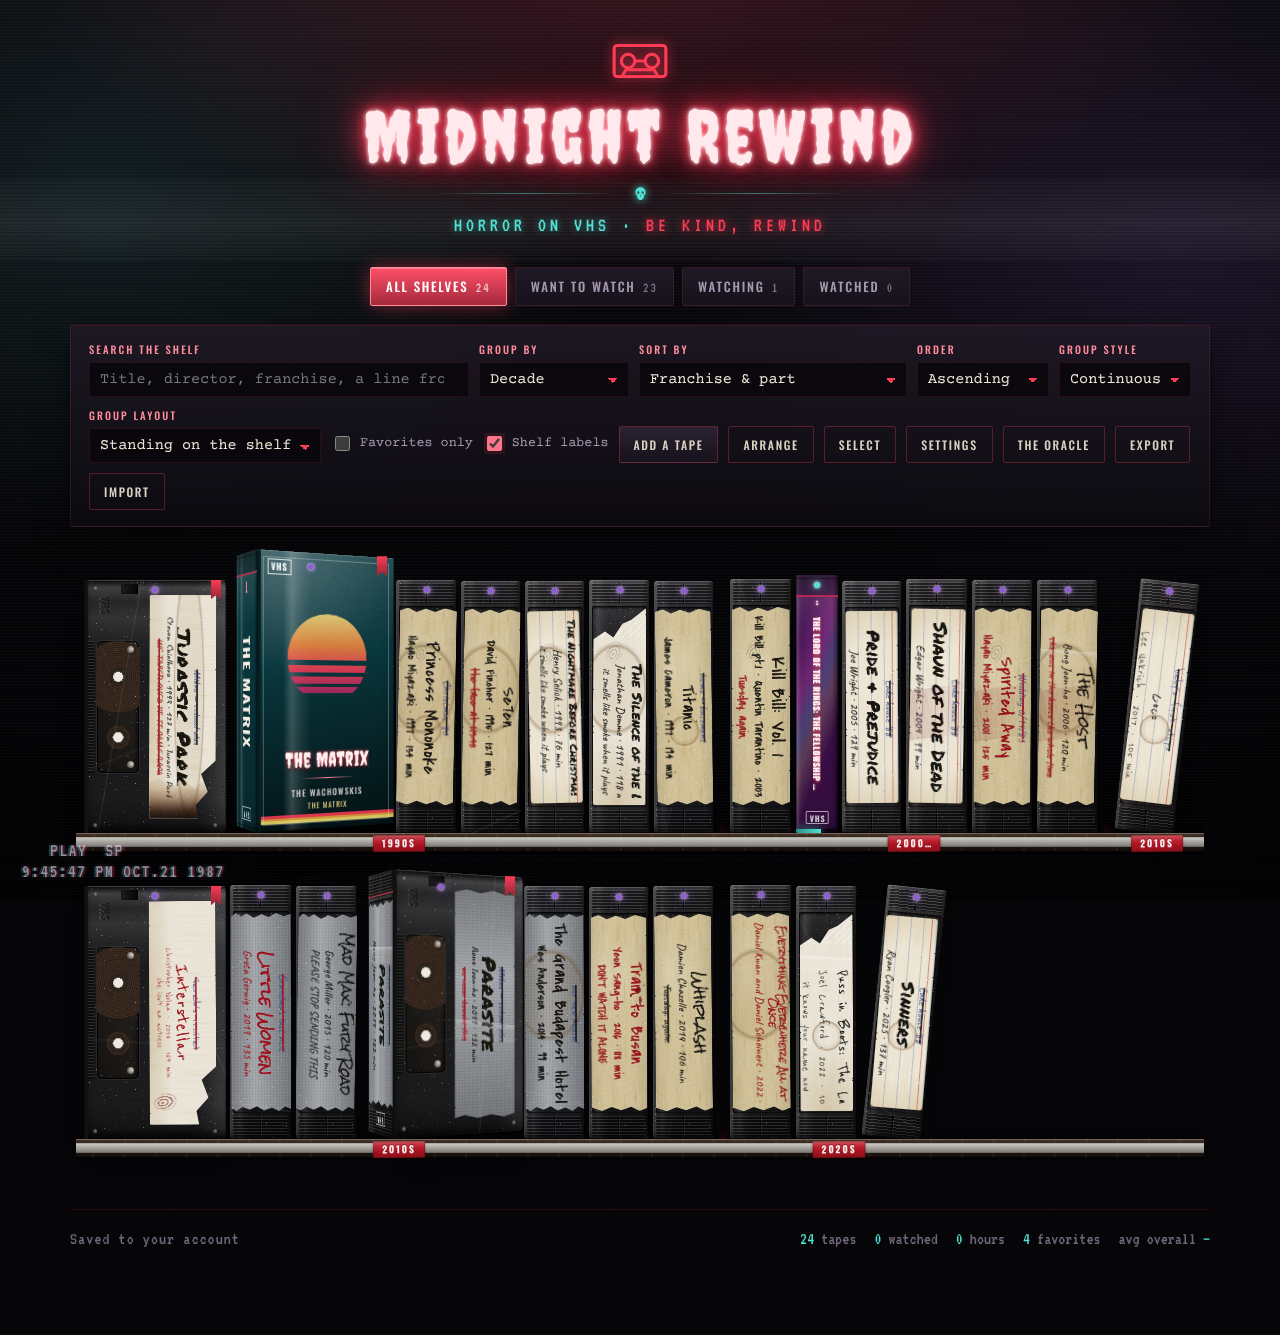
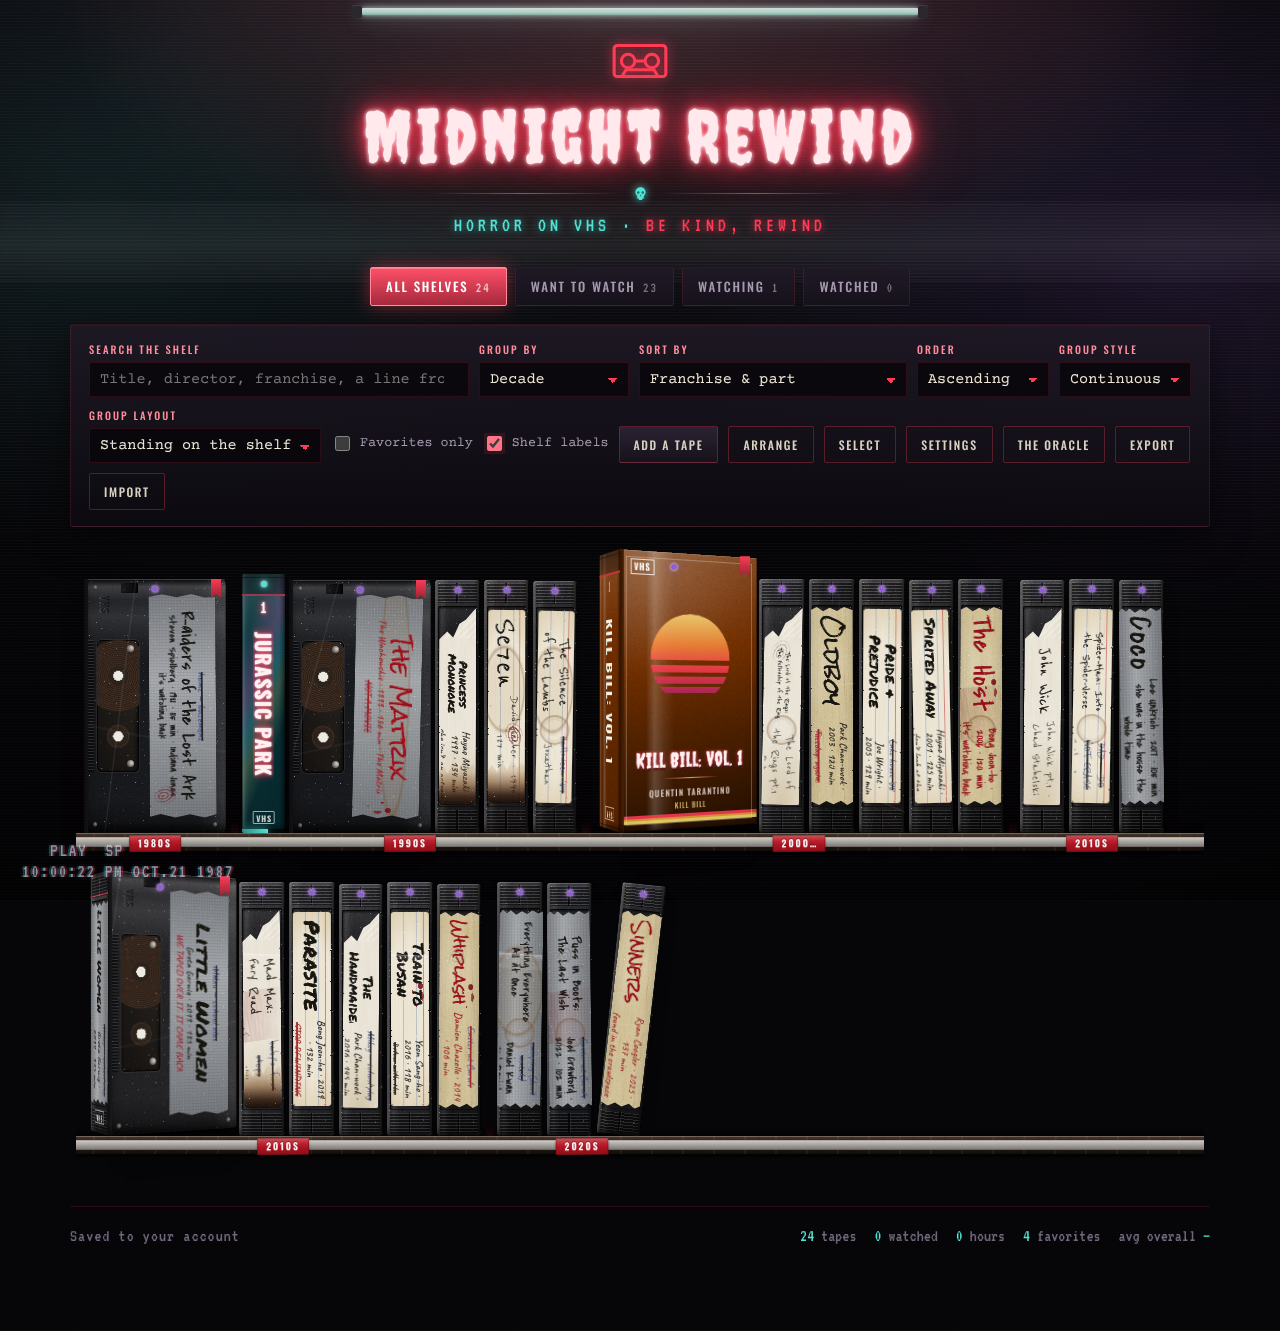
Readable tape titles on thinner tapes, and a flickering tube light (#4)
The spine label no longer shares its width between the title and the
details: the title is written across the full width down the top of the
label, one line or two, whichever is larger, and the details, stars and
notes run below it in small writing that wraps across the spine. Bare
tapes go from 60px to 44px wide. Torn labels start their writing below
the tear. Fonts are unchanged.

A fluorescent tube now hangs on the back wall above the sign, humming and
stuttering on an irregular loop, with its light spilling down behind the
shelves; it holds steady with the Atmosphere setting off or reduced
motion.

Claude-Session: https://claude.ai/code/session_016hQkK998c2gkUKNzShamAL

diff --git a/artifact/midnight-rewind.html b/artifact/midnight-rewind.html
@@ -442,6 +442,30 @@ input:focus,select:focus,textarea:focus{border-color:var(--neon-dim);box-shadow:
 .tl-note.x{text-decoration:line-through;text-decoration-thickness:1.5px}
 .let-pencil .tl-title{font-family:"Caveat",cursive;font-weight:700;font-size:calc(var(--fs) * 1.2);opacity:.85;text-shadow:none}
 .let-pencil .tl-meta,.let-pencil .tl-note{opacity:.75}
+/* On a spine: the title down the top of the label at full width, the rest
+   below it in small writing that wraps from line to line across the spine. */
+.tlabel.stacked{
+  writing-mode:horizontal-tb;display:flex;flex-direction:column;align-items:center;padding:8px 2px 6px;
+}
+.tlabel.stacked > span.tl-title{
+  writing-mode:vertical-rl;flex:0 0 auto;max-height:var(--room);max-width:100%;
+  white-space:nowrap;text-align:center;line-height:1.08;
+}
+.tlabel.stacked.two > span.tl-title{white-space:normal;line-height:1.02;text-wrap:balance}
+.hand-scratch.stacked > span.tl-title{line-height:1.3}
+.tlabel.stacked.lab-torn{padding-top:40px}
+
+.tl-rest{
+  writing-mode:vertical-rl;flex:1 1 auto;min-height:0;max-width:100%;overflow:hidden;
+  margin-top:7px;position:relative;z-index:2;line-height:1.05;
+}
+.tl-rest > span{display:block;white-space:normal}
+.tlabel.stacked .tl-meta{font-size:10.5px}
+.tlabel.stacked .tl-stars{font-size:10px}
+.tlabel.stacked .tl-note,.tlabel.stacked .tl-old{font-size:10.5px}
+.hand-scrawl.stacked .tl-meta,.hand-scrawl.stacked .tl-note,.hand-scrawl.stacked .tl-old{font-size:13px}
+.hand-neat.stacked .tl-meta,.hand-neat.stacked .tl-note{font-size:11.5px}
+
 
 /* Masking tape: translucent buff paper, torn at both ends. */
 .lab-masking{
@@ -615,6 +639,41 @@ width:calc(var(--cw) * .035);height:calc(var(--cw) * .035);border-radius:50%;z-i
 .cass-screw.s3{left:2.5%;bottom:6%}
 .cass-screw.s4{right:2.5%;bottom:6%}
 .faced .cass-front,.ang-front .cass-front{border-radius:inherit}
+
+/* ---------- the tube ----------
+   A fluorescent tube high on the back wall, never quite steady: it hums along
+   a little dim and a little bright, and every so often stutters. Its light
+   spills down the wall behind the shelves. Subtle by design; it is the room,
+   not an effect. */
+.tube{
+  position:absolute;top:-22px;left:50%;width:min(560px,70%);height:7px;transform:translateX(-50%);
+  border-radius:4px;z-index:0;pointer-events:none;
+  background:linear-gradient(180deg,#F4FFFB,#C9F2E6 60%,#8FC9BA);
+  box-shadow:0 0 6px rgba(220,255,245,.9), 0 0 22px rgba(170,255,230,.45), 0 0 60px rgba(150,240,220,.25);
+  animation:hum 7.3s linear infinite;
+}
+.tube::before,.tube::after{
+  content:"";position:absolute;top:-3px;width:10px;height:13px;border-radius:2px;background:#2a2a2e;
+  box-shadow:inset 0 1px 0 rgba(255,255,255,.12);
+}
+.tube::before{left:-8px}
+.tube::after{right:-8px}
+.tube-light{
+  position:fixed;left:0;right:0;top:0;height:85vh;z-index:0;pointer-events:none;
+  background:radial-gradient(60% 70% at 50% 0%, rgba(170,255,232,.10), rgba(170,255,232,.035) 45%, transparent 75%);
+  mix-blend-mode:screen;
+  animation:hum 7.3s linear infinite;
+}
+@keyframes hum{
+  0%{opacity:.9} 8%{opacity:.82} 9%{opacity:.35} 9.6%{opacity:.88} 10.2%{opacity:.4} 11%{opacity:.92}
+  27%{opacity:.85} 41%{opacity:.95} 55%{opacity:.8} 63%{opacity:.88}
+  71%{opacity:.86} 71.5%{opacity:.25} 72.4%{opacity:.75} 73%{opacity:.3} 74.5%{opacity:.9}
+  88%{opacity:.84} 100%{opacity:.9}
+}
+body.app .tube{display:none}
+body.calm .tube,body.calm .tube-light{animation:none;opacity:.85}
+@media (prefers-reduced-motion:reduce){.tube,.tube-light{animation:none;opacity:.85}}
+.masthead{position:relative}
 
 /* ---------- atmosphere ----------
    Film grain over everything, a fluorescent tube on its way out, the VCR's
@@ -1776,6 +1835,7 @@ body.app #oracleOverlay .or-actions .btn{min-height:48px}
   </filter>
 </svg>
 <div class="chamber" aria-hidden="true"></div>
+<div class="tube-light" aria-hidden="true"></div>
 <div class="film-grain" aria-hidden="true"></div>
 <div class="lamp" id="lamp" aria-hidden="true"></div>
 <div class="osd" aria-hidden="true"><div><b>&#9654;</b> PLAY &nbsp;SP</div><div id="osdClock"></div></div>
@@ -1789,6 +1849,8 @@ body.app #oracleOverlay .or-actions .btn{min-height:48px}
 
 <div class="wrap">
   <header class="masthead">
+    <span class="tube" aria-hidden="true"></span>
+
     <svg class="crest" viewBox="0 0 24 24" aria-hidden="true">
       <rect x="2" y="6" width="20" height="12" rx="1.2"/>
       <circle cx="7.4" cy="12" r="2.6"/><circle cx="16.6" cy="12" r="2.6"/>
@@ -2702,7 +2764,7 @@ function coverShow(b){
    than a sleeve, and how fat the case is. The lettering is fitted to the room
    instead (see spineFontSize). */
 var COVER_RATIO = 0.56;
-var BOX_W = {bare:60, rental:46, slipcase:38, clamshell:50, foil:42, glossy:40};
+var BOX_W = {bare:44, rental:46, slipcase:38, clamshell:50, foil:42, glossy:40};
 function autoH(b){
   var f = finishOf(b);
   return (f === "clamshell" ? 266 : f === "bare" ? 252 : 258) + (hash(b.id) % 3);
@@ -3738,34 +3800,48 @@ function tapedOverHTML(b){
   var old = tapedOverOf(b);
   return old ? '<span class="tl-old">' + esc(old) + "</span>" : "";
 }
+/* The title owns the label. It is written big, across the full width of the
+   spine, down the top of the label; the details, stars and notes go below it
+   in small writing, further down the tape, the way a careful hand labels a
+   spine it cannot make any wider. */
 function bareSpineHTML(b, h, s){
-  var len = h - 58;                              /* the label, end to end */
+  var len = h - 56 - 15;                         /* the label, end to end, inside its padding */
+  var across = spineW(b) - 12;                   /* and across */
   var title = b.title || "Untitled";
   var chars = Math.max(1, title.length);
-  var hand = HANDS[handOf(b)], old = tapedOverOf(b);
-  /* Past what one line can hold at a readable size, the title wraps onto a
-     second, and the note, or the crossed-out home movie, gives way. */
-  var one = len / (chars * hand.width);
-  var two = one < 10 * hand.scale;
-  var fs = two ? Math.min(12 * hand.scale, (len * 2) / (chars * hand.width * 1.03))
-               : Math.min(19 * hand.scale, 21, one);
+  var hand = HANDS[handOf(b)];
   var details = labelDetails(b, s), stars = s.pips ? starText(b) : "";
-  /* And across: the title's line, or two, must leave room on the label for
-     the details, the stars and whatever was scrawled there first. */
-  var across = spineW(b) - 12 - (details.length ? 14 : 0) - (stars ? 12 : 0) -
-    (!two && (old || scrawlOn(b)) ? 14 : 0);
-  fs = Math.min(fs, across / (two ? 2.1 : 1.12));
+  var rest = (details.length || stars || tapedOverOf(b) || scrawlOn(b)) ? 74 : 0;
+  /* A torn label has lost its top corner; the writing starts below the tear. */
+  if(labelOf(b) === "torn") len -= Math.round(len * 0.2);
+  var room = len - rest;                         /* the length the title may use */
+  /* A line can be no taller than the spine is wide. Rock Salt stands taller
+     in its line than the others; the small-bodied hands may run a little
+     larger before they fill it. */
+  var lead = handOf(b) === "scratch" ? 1.3 : 1.08;
+  var cap = across / lead * (hand.scale > 1 ? 1.15 : 1);
+  var one = room / (chars * hand.width);
+  /* One line or two, whichever writes the title bigger. Handwriting wraps less
+     tidily than it measures (a word that will not fit at the end of a line
+     pushes to the next), so two lines are budgeted at well under twice one,
+     and only win when they are clearly larger. */
+  var fs1 = Math.min(cap, one * 0.96);
+  var fs2 = chars > 6 ? Math.min(cap / 2.05, (room * 2) / (chars * hand.width) * 0.8) : 0;
+  var two = fs2 > fs1 * 1.12;
+  var fs = two ? fs2 : fs1;
   fs = Math.max(7.5, fs) * textScale(b);
   return '<span class="bare-grip top"></span><span class="bare-grip bot"></span><span class="bare-well"></span>' +
     plasticWearHTML(b) +
-    '<span class="' + labelClass(b, two ? " two" : "") + '" style="--tilt:' + labelTilt(b) +
-      'deg;--fs:' + fs.toFixed(2) + 'px">' +
+    '<span class="' + labelClass(b, " stacked" + (two ? " two" : "")) + '" style="--tilt:' + labelTilt(b) +
+      'deg;--fs:' + fs.toFixed(2) + 'px;--room:' + Math.round(room) + 'px">' +
       stainsHTML(b) +
-      (two ? "" : tapedOverHTML(b)) +
       (s.title ? '<span class="tl-title">' + esc(title) + "</span>" : "") +
-      (details.length ? '<span class="tl-meta">' + esc(details.join(" \u00B7 ")) + "</span>" : "") +
-      (stars ? '<span class="tl-stars">' + stars + "</span>" : "") +
-      (two || old ? "" : noteHTML(b, "tl-note")) +
+      '<span class="tl-rest">' +
+        tapedOverHTML(b) +
+        (details.length ? '<span class="tl-meta">' + esc(details.join(" · ")) + "</span>" : "") +
+        (stars ? '<span class="tl-stars">' + stars + "</span>" : "") +
+        noteHTML(b, "tl-note") +
+      "</span>" +
     "</span>";
 }
 /* The face of the cassette, for a tape stood front-out or turned on the shelf.

diff --git a/index.html b/index.html
@@ -462,6 +462,30 @@ input:focus,select:focus,textarea:focus{border-color:var(--neon-dim);box-shadow:
 .tl-note.x{text-decoration:line-through;text-decoration-thickness:1.5px}
 .let-pencil .tl-title{font-family:"Caveat",cursive;font-weight:700;font-size:calc(var(--fs) * 1.2);opacity:.85;text-shadow:none}
 .let-pencil .tl-meta,.let-pencil .tl-note{opacity:.75}
+/* On a spine: the title down the top of the label at full width, the rest
+   below it in small writing that wraps from line to line across the spine. */
+.tlabel.stacked{
+  writing-mode:horizontal-tb;display:flex;flex-direction:column;align-items:center;padding:8px 2px 6px;
+}
+.tlabel.stacked > span.tl-title{
+  writing-mode:vertical-rl;flex:0 0 auto;max-height:var(--room);max-width:100%;
+  white-space:nowrap;text-align:center;line-height:1.08;
+}
+.tlabel.stacked.two > span.tl-title{white-space:normal;line-height:1.02;text-wrap:balance}
+.hand-scratch.stacked > span.tl-title{line-height:1.3}
+.tlabel.stacked.lab-torn{padding-top:40px}
+
+.tl-rest{
+  writing-mode:vertical-rl;flex:1 1 auto;min-height:0;max-width:100%;overflow:hidden;
+  margin-top:7px;position:relative;z-index:2;line-height:1.05;
+}
+.tl-rest > span{display:block;white-space:normal}
+.tlabel.stacked .tl-meta{font-size:10.5px}
+.tlabel.stacked .tl-stars{font-size:10px}
+.tlabel.stacked .tl-note,.tlabel.stacked .tl-old{font-size:10.5px}
+.hand-scrawl.stacked .tl-meta,.hand-scrawl.stacked .tl-note,.hand-scrawl.stacked .tl-old{font-size:13px}
+.hand-neat.stacked .tl-meta,.hand-neat.stacked .tl-note{font-size:11.5px}
+
 
 /* Masking tape: translucent buff paper, torn at both ends. */
 .lab-masking{
@@ -635,6 +659,41 @@ width:calc(var(--cw) * .035);height:calc(var(--cw) * .035);border-radius:50%;z-i
 .cass-screw.s3{left:2.5%;bottom:6%}
 .cass-screw.s4{right:2.5%;bottom:6%}
 .faced .cass-front,.ang-front .cass-front{border-radius:inherit}
+
+/* ---------- the tube ----------
+   A fluorescent tube high on the back wall, never quite steady: it hums along
+   a little dim and a little bright, and every so often stutters. Its light
+   spills down the wall behind the shelves. Subtle by design; it is the room,
+   not an effect. */
+.tube{
+  position:absolute;top:-22px;left:50%;width:min(560px,70%);height:7px;transform:translateX(-50%);
+  border-radius:4px;z-index:0;pointer-events:none;
+  background:linear-gradient(180deg,#F4FFFB,#C9F2E6 60%,#8FC9BA);
+  box-shadow:0 0 6px rgba(220,255,245,.9), 0 0 22px rgba(170,255,230,.45), 0 0 60px rgba(150,240,220,.25);
+  animation:hum 7.3s linear infinite;
+}
+.tube::before,.tube::after{
+  content:"";position:absolute;top:-3px;width:10px;height:13px;border-radius:2px;background:#2a2a2e;
+  box-shadow:inset 0 1px 0 rgba(255,255,255,.12);
+}
+.tube::before{left:-8px}
+.tube::after{right:-8px}
+.tube-light{
+  position:fixed;left:0;right:0;top:0;height:85vh;z-index:0;pointer-events:none;
+  background:radial-gradient(60% 70% at 50% 0%, rgba(170,255,232,.10), rgba(170,255,232,.035) 45%, transparent 75%);
+  mix-blend-mode:screen;
+  animation:hum 7.3s linear infinite;
+}
+@keyframes hum{
+  0%{opacity:.9} 8%{opacity:.82} 9%{opacity:.35} 9.6%{opacity:.88} 10.2%{opacity:.4} 11%{opacity:.92}
+  27%{opacity:.85} 41%{opacity:.95} 55%{opacity:.8} 63%{opacity:.88}
+  71%{opacity:.86} 71.5%{opacity:.25} 72.4%{opacity:.75} 73%{opacity:.3} 74.5%{opacity:.9}
+  88%{opacity:.84} 100%{opacity:.9}
+}
+body.app .tube{display:none}
+body.calm .tube,body.calm .tube-light{animation:none;opacity:.85}
+@media (prefers-reduced-motion:reduce){.tube,.tube-light{animation:none;opacity:.85}}
+.masthead{position:relative}
 
 /* ---------- atmosphere ----------
    Film grain over everything, a fluorescent tube on its way out, the VCR's
@@ -1939,6 +1998,7 @@ body.app #oracleOverlay .or-actions .btn{min-height:48px}
   </filter>
 </svg>
 <div class="chamber" aria-hidden="true"></div>
+<div class="tube-light" aria-hidden="true"></div>
 <div class="film-grain" aria-hidden="true"></div>
 <div class="lamp" id="lamp" aria-hidden="true"></div>
 <div class="osd" aria-hidden="true"><div><b>&#9654;</b> PLAY &nbsp;SP</div><div id="osdClock"></div></div>
@@ -1952,6 +2012,8 @@ body.app #oracleOverlay .or-actions .btn{min-height:48px}
 
 <div class="wrap">
   <header class="masthead">
+    <span class="tube" aria-hidden="true"></span>
+
     <svg class="crest" viewBox="0 0 24 24" aria-hidden="true">
       <rect x="2" y="6" width="20" height="12" rx="1.2"/>
       <circle cx="7.4" cy="12" r="2.6"/><circle cx="16.6" cy="12" r="2.6"/>
@@ -2865,7 +2927,7 @@ function coverShow(b){
    than a sleeve, and how fat the case is. The lettering is fitted to the room
    instead (see spineFontSize). */
 var COVER_RATIO = 0.56;
-var BOX_W = {bare:60, rental:46, slipcase:38, clamshell:50, foil:42, glossy:40};
+var BOX_W = {bare:44, rental:46, slipcase:38, clamshell:50, foil:42, glossy:40};
 function autoH(b){
   var f = finishOf(b);
   return (f === "clamshell" ? 266 : f === "bare" ? 252 : 258) + (hash(b.id) % 3);
@@ -3901,34 +3963,48 @@ function tapedOverHTML(b){
   var old = tapedOverOf(b);
   return old ? '<span class="tl-old">' + esc(old) + "</span>" : "";
 }
+/* The title owns the label. It is written big, across the full width of the
+   spine, down the top of the label; the details, stars and notes go below it
+   in small writing, further down the tape, the way a careful hand labels a
+   spine it cannot make any wider. */
 function bareSpineHTML(b, h, s){
-  var len = h - 58;                              /* the label, end to end */
+  var len = h - 56 - 15;                         /* the label, end to end, inside its padding */
+  var across = spineW(b) - 12;                   /* and across */
   var title = b.title || "Untitled";
   var chars = Math.max(1, title.length);
-  var hand = HANDS[handOf(b)], old = tapedOverOf(b);
-  /* Past what one line can hold at a readable size, the title wraps onto a
-     second, and the note, or the crossed-out home movie, gives way. */
-  var one = len / (chars * hand.width);
-  var two = one < 10 * hand.scale;
-  var fs = two ? Math.min(12 * hand.scale, (len * 2) / (chars * hand.width * 1.03))
-               : Math.min(19 * hand.scale, 21, one);
+  var hand = HANDS[handOf(b)];
   var details = labelDetails(b, s), stars = s.pips ? starText(b) : "";
-  /* And across: the title's line, or two, must leave room on the label for
-     the details, the stars and whatever was scrawled there first. */
-  var across = spineW(b) - 12 - (details.length ? 14 : 0) - (stars ? 12 : 0) -
-    (!two && (old || scrawlOn(b)) ? 14 : 0);
-  fs = Math.min(fs, across / (two ? 2.1 : 1.12));
+  var rest = (details.length || stars || tapedOverOf(b) || scrawlOn(b)) ? 74 : 0;
+  /* A torn label has lost its top corner; the writing starts below the tear. */
+  if(labelOf(b) === "torn") len -= Math.round(len * 0.2);
+  var room = len - rest;                         /* the length the title may use */
+  /* A line can be no taller than the spine is wide. Rock Salt stands taller
+     in its line than the others; the small-bodied hands may run a little
+     larger before they fill it. */
+  var lead = handOf(b) === "scratch" ? 1.3 : 1.08;
+  var cap = across / lead * (hand.scale > 1 ? 1.15 : 1);
+  var one = room / (chars * hand.width);
+  /* One line or two, whichever writes the title bigger. Handwriting wraps less
+     tidily than it measures (a word that will not fit at the end of a line
+     pushes to the next), so two lines are budgeted at well under twice one,
+     and only win when they are clearly larger. */
+  var fs1 = Math.min(cap, one * 0.96);
+  var fs2 = chars > 6 ? Math.min(cap / 2.05, (room * 2) / (chars * hand.width) * 0.8) : 0;
+  var two = fs2 > fs1 * 1.12;
+  var fs = two ? fs2 : fs1;
   fs = Math.max(7.5, fs) * textScale(b);
   return '<span class="bare-grip top"></span><span class="bare-grip bot"></span><span class="bare-well"></span>' +
     plasticWearHTML(b) +
-    '<span class="' + labelClass(b, two ? " two" : "") + '" style="--tilt:' + labelTilt(b) +
-      'deg;--fs:' + fs.toFixed(2) + 'px">' +
+    '<span class="' + labelClass(b, " stacked" + (two ? " two" : "")) + '" style="--tilt:' + labelTilt(b) +
+      'deg;--fs:' + fs.toFixed(2) + 'px;--room:' + Math.round(room) + 'px">' +
       stainsHTML(b) +
-      (two ? "" : tapedOverHTML(b)) +
       (s.title ? '<span class="tl-title">' + esc(title) + "</span>" : "") +
-      (details.length ? '<span class="tl-meta">' + esc(details.join(" \u00B7 ")) + "</span>" : "") +
-      (stars ? '<span class="tl-stars">' + stars + "</span>" : "") +
-      (two || old ? "" : noteHTML(b, "tl-note")) +
+      '<span class="tl-rest">' +
+        tapedOverHTML(b) +
+        (details.length ? '<span class="tl-meta">' + esc(details.join(" · ")) + "</span>" : "") +
+        (stars ? '<span class="tl-stars">' + stars + "</span>" : "") +
+        noteHTML(b, "tl-note") +
+      "</span>" +
     "</span>";
 }
 /* The face of the cassette, for a tape stood front-out or turned on the shelf.

diff --git a/sw.js b/sw.js
@@ -1,5 +1,5 @@
 /* Generated by build.py. */
-var CACHE = "midnight-rewind-099718b96ae8";
+var CACHE = "midnight-rewind-82f6310ad620";
 var SHELL = ["./", "index.html", "manifest.webmanifest",
              "icons/icon-192.png", "icons/icon-512.png", "icons/apple-touch-icon.png"];
 

diff --git a/README.md b/README.md
@@ -45,8 +45,10 @@ with every feature that has, reworked for movies and dressed for horror.
   recordings found in a basement. The label is masking tape, a ruled stationery
   sticker, duct tape or a half-peeled shop label, with paper fibre and edges and
   ink that wobble the way hand-made things do. Each tape was labelled by one of
-  four different hands, in marker (black, red, or pencil), with the title,
-  franchise and part, director, year, runtime and your rating as drawn stars.
+  four different hands, in marker (black, red, or pencil). The title is written
+  big, across the full width of the spine, down the top of the label; the
+  franchise and part, director, year, runtime and your rating as drawn stars run
+  below it in small writing.
 - **Creepy.** Many tapes are **taped-over home movies**: the old label ("Jenny's
   7th bday", "Grandma's last visit") struck out in ballpoint with the film
   written beside it. Others carry a note from whoever had the tape before ("it
@@ -57,7 +59,8 @@ with every feature that has, reworked for movies and dressed for horror.
   the label and ink yourself, or turn the notes off. Stood front-out, a bare tape
   shows the cassette's face, with the tape on its two reels moving across as you
   watch it.
-- **Atmosphere.** Film grain over everything, a fluorescent tube that fails now
+- **Atmosphere.** A fluorescent tube on the back wall that never quite holds
+  steady, its light spilling down behind the shelves; film grain over everything, a fluorescent tube that fails now
   and then, a VCR on-screen display whose clock shows tonight's time in 1987, a
   sign that loses tracking, and tapes that glitch as you reach for them. Settings
   can switch it off; it is always off for reduced motion.
